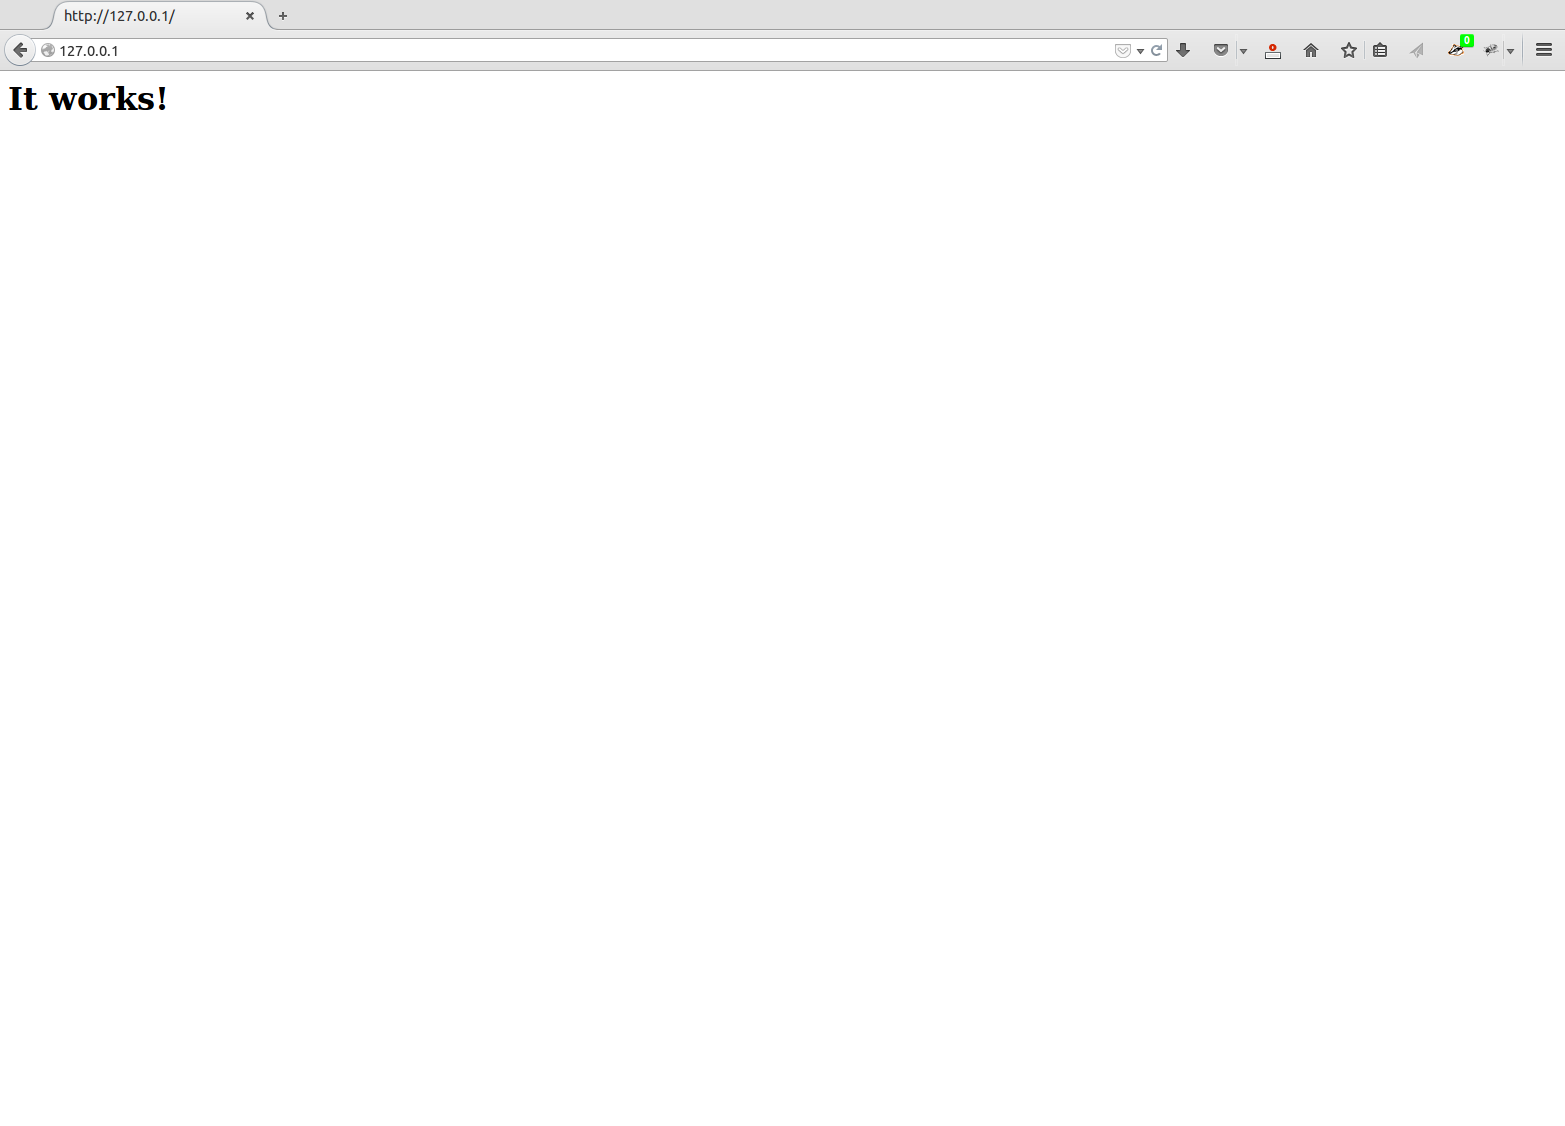
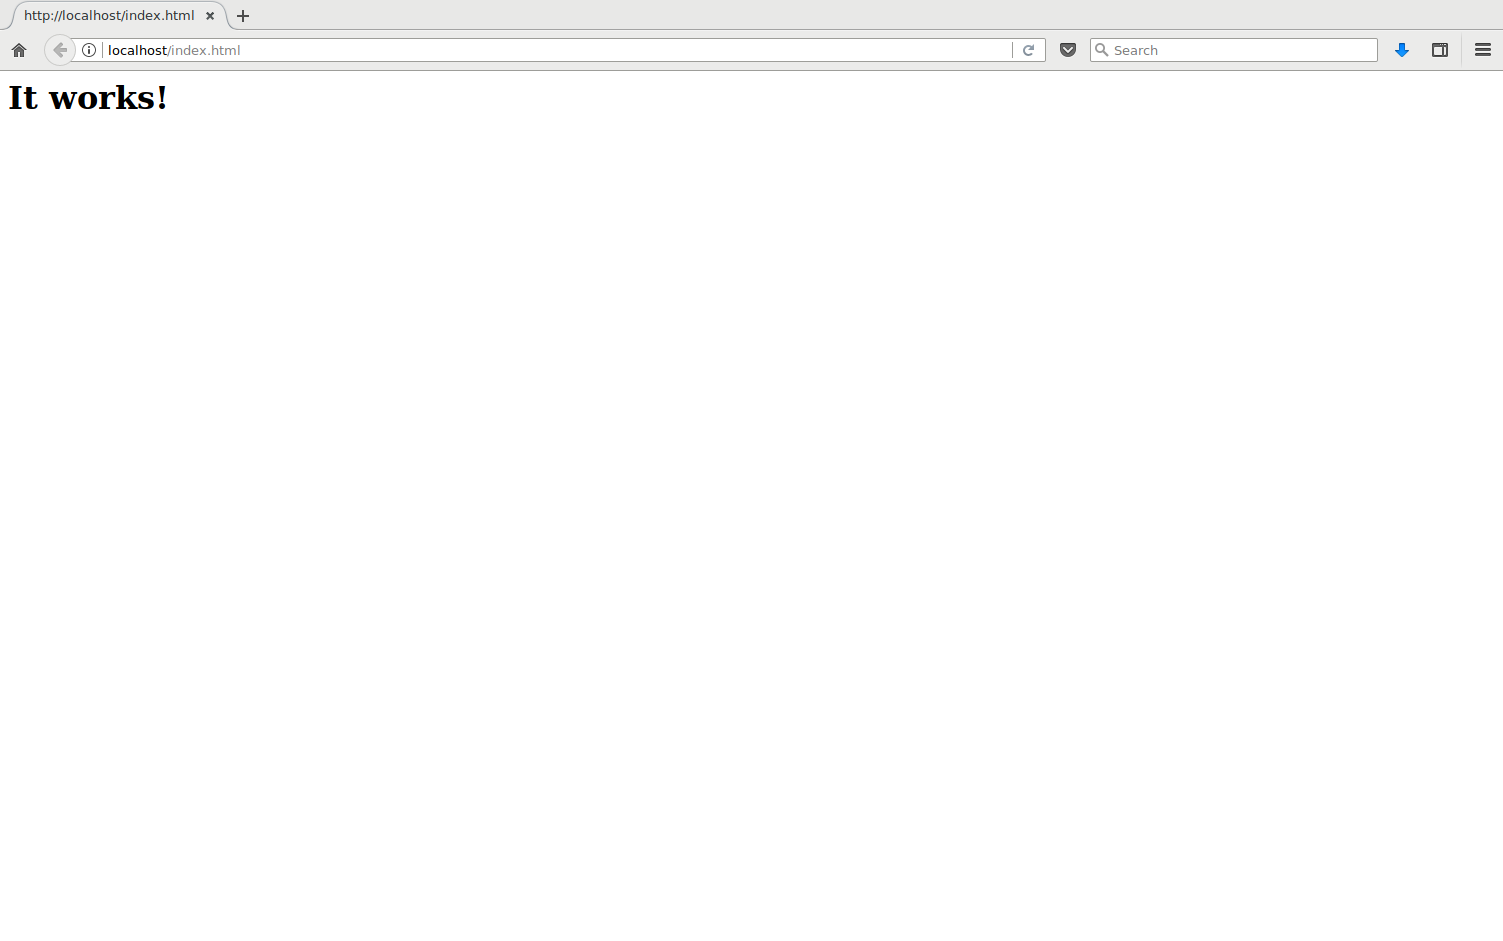
Various updates to tutorial 1 after course in October

Changed region(s): [[0.0, 0.0, 1.0, 0.1233]]

diff --git a/labor-00/README.md b/labor-00/README.md
@@ -25,23 +25,23 @@ Seit dem Erscheinen von Apache 2.4 wird der Apache Webserver ohne zwei wichtige 
 Beginnen wir mit _apr_ und laden das Paket herunter:
 
 ```bash
-$> wget https://mirror.switch.ch/mirror/apache/dist/apr/apr-1.6.2.tar.bz2
+$> wget https://www-eu.apache.org/dist/apr/apr-1.6.3.tar.bz2
 ```
 
 Nun laden wir die Checksum der Sourcecodedatei direkt von Apache herunter. Leider bietet _www.apache.org_ nur eine md5-Checksum für `apr` an. Wir testen sie dennoch. Sicherheitshalber verwenden wir beim Herunterladen eine gesicherte Verbindung. Ohne https macht diese Überprüfung keinen grossen Sinn. Beide Files, der Sourcecode und die kleine Prüfsummendatei, sollten nebeneinander in `/usr/src/apache` liegen. Dann lässt sich die Prüfsumme testen:
 
 
 ```bash
-$> wget https://www.apache.org/dist/apr/apr-1.6.2.tar.bz2.md5
-$> md5sum --check apr-1.6.2.tar.bz2.md5
-apr-1.6.2.tar.bz2: OK
+$> wget https://www.apache.org/dist/apr/apr-1.6.3.tar.bz2.md5
+$> md5sum --check apr-1.6.3.tar.bz2.md5
+apr-1.6.3.tar.bz2: OK
 ```
 
 Das Überprüfen sollte keine Probleme machen, _OK_. Wir können also mit dem Entpacken, Vorkonfigurieren und dem Kompilieren der _apr_ fortfahren.
 
 ```bash
-$> tar -xvjf apr-1.6.2.tar.bz2
-$> cd apr-1.6.2
+$> tar -xvjf apr-1.6.3.tar.bz2
+$> cd apr-1.6.3
 $> ./configure --prefix=/usr/local/apr/
 ```
 
@@ -50,9 +50,20 @@ Der Configure-Befehl beschwert sich oft über fehlende Komponenten. Ist klar: Oh
 
 Sachen, die typischerweise fehlen, sind folgende:
 
-- build-essential
-- binutils
-- gcc
+* build-essential
+* binutils
+* gcc
+
+Und wenn wir schon dabei sind, nützen wir doch die Gelegenheit und installieren sämtliche weitere Pakete, welche wir in diesem und den folgenden Tutorials benötigen:
+
+* libexpat1-dev
+* libpcre3-dev
+* libssl-dev
+* libxml2-dev
+* libyajl-dev
+* zlibc
+* zlib1g-dev
+
 
 Das sind die Paket-Namen auf einer debian-basierten Distribution. Andernorts mögen die Pakete anders heissen.
 Das Fehlen lässt sich leicht beheben, indem man sie mit den Hilfsmitteln der eigenen Distribution nachinstalliert. Danach _configure_ neu ausführen, eventuell nochmals etwas nachinstallieren und irgendwann läuft das Skript dann erfolgreich durch (einzelne Warnungen mitten drin spielen bei _configure_ übrigens keine Rolle. Wichtig ist, dass das Skript nicht mitten drin abbricht).
@@ -73,12 +84,12 @@ Wenn dies erfolgreich geschehen ist, verfahren wir mit den _apr-util_ analog.
 
 ```bash
 $> cd /usr/src/apache
-$> wget https://mirror.switch.ch/mirror/apache/dist/apr/apr-util-1.6.0.tar.bz2
-$> wget https://www.apache.org/dist/apr/apr-util-1.6.0.tar.bz2.md5
-$> md5sum --check apr-util-1.6.0.tar.bz2.md5
-apr-util-1.6.0.tar.bz2: OK
-$> tar -xvjf apr-util-1.6.0.tar.bz2
-$> cd apr-util-1.6.0
+$> wget https://www-eu.apache.org/dist/apr/apr-util-1.6.1.tar.bz2
+$> wget https://www.apache.org/dist/apr/apr-util-1.6.1.tar.bz2.md5
+$> md5sum --check apr-util-1.6.1.tar.bz2.md5
+apr-util-1.6.1.tar.bz2: OK
+$> tar -xvjf apr-util-1.6.1.tar.bz2
+$> cd apr-util-1.6.1
 $> ./configure --prefix=/usr/local/apr/ --with-apr=/usr/local/apr/
 $> make
 $> sudo make install
@@ -92,7 +103,7 @@ Jetzt laden wir den Programmcode vom Netz herunter. Man kann das mit dem Browser
 
 ```bash
 $> cd /usr/src/apache
-$> wget https://mirror.switch.ch/mirror/apache/dist/httpd/httpd-2.4.27.tar.bz2
+$> wget https://www-eu.apache.org/dist//httpd/httpd-2.4.29.tar.bz2
 ```
 
 Der gepackte Sourcecode hat etwa eine Grösse von 5MB.
@@ -100,9 +111,9 @@ Der gepackte Sourcecode hat etwa eine Grösse von 5MB.
 Nun laden wir die Checksum der Sourcecodedatei direkt von Apache herunter. Dankenswerterweise steht sie immerhin als _sha1-Checksum_ zur Verfügung. Sicherheitshalber verwenden wir dazu wieder eine gesicherte Verbindung. Ohne https macht diese Überprüfung keinen Sinn.
 
 ```bash
-$> wget https://www.apache.org/dist/httpd/httpd-2.4.27.tar.bz2.sha1
-$> sha1sum --check httpd-2.4.27.tar.bz2.sha1 
-httpd-2.4.27.tar.bz2: OK
+$> wget https://www.apache.org/dist/httpd/httpd-2.4.29.tar.bz2.sha1
+$> sha1sum --check httpd-2.4.29.tar.bz2.sha1 
+httpd-2.4.29.tar.bz2: OK
 ```
 
 ###Schritt 4: Entpacken und Compiler konfigurieren
@@ -110,7 +121,7 @@ httpd-2.4.27.tar.bz2: OK
 Nach der Überprüfung können wir das Paket entpacken.
 
 ```bash
-$> tar -xvjf httpd-2.4.27.tar.bz2
+$> tar -xvjf httpd-2.4.29.tar.bz2
 ```
 
 Das ergibt etwa 38MB.
@@ -118,8 +129,8 @@ Das ergibt etwa 38MB.
 Wir gehen nun in das Verzeichnis und konfigurieren den Compiler mit unseren Eingaben und mit Informationen zu unserem System. Anders als bei _apr_ sind unsere Eingaben sehr umfangreich.
 
 ```bash
-$> cd httpd-2.4.27
-$> ./configure --prefix=/opt/apache-2.4.27 --with-apr=/usr/local/apr/bin/apr-1-config \
+$> cd httpd-2.4.29
+$> ./configure --prefix=/opt/apache-2.4.29 --with-apr=/usr/local/apr/bin/apr-1-config \
 --with-apr-util=/usr/local/apr/bin/apu-1-config --enable-mpms-shared=event \
 --enable-mods-shared=all --enable-nonportable-atomics=yes
 ```
@@ -127,18 +138,6 @@ $> ./configure --prefix=/opt/apache-2.4.27 --with-apr=/usr/local/apr/bin/apr-1-c
 Hier bestimmen wir das Zielverzeichnis für den zukünftigen Apache Webserver; wieder konform mit dem _FHS_. Darauf folgen zwei Optionen, um die beiden als Vorbedingung installierten Bibliotheken anzubinden. Mittels `--enable-mpms-shared` wählen wir ein sogenanntes Prozessmodell des Servers aus. Das ist – vereinfacht gesagt – so etwas wie der Motorentyp der Maschine: Benzin oder Diesel. In unserem Fall stehen `event`, `worker`, `prefork` und ein paar experimentelle Motoren zur Verfügung. Wir nehmen hier das Modell `event`, das unter 2.4 den neuen Standard darstellt und deutlich performanter ist als die übrigen Architekturen. In den Versionslinien 2.0 und 2.2 gab es bei diesem Entscheid deutlich mehr als nur die Performance zu bedenken, aber seit 2.4 hat sich die Problematik deutlich entschärft und wir fahren nun mit `event` am besten. Mehr Infos zu den verschiedenen Prozessmodellen (_MPMs_) liefert das Apache Projekt.
 
 Dann bestimmen wir, dass wir alle (_all_) Module mitkompilieren möchten. Dabei ist zu berücksichtigen, dass _all_ hier nicht wirklich alle bedeutet. Aus historischen Gründen meint _all_ nur sämtliche Kern-Module, was auch schon eine ganze Menge ist. Das Schlüsselwort _shared_ besagt, dass wir die Module separat kompiliert haben möchten, um sie dann einzeln als optionale Module einbinden zu können. Zu guter Letzt folgt mit `enable-nonportable-atomics` ein Compiler-Flag, das den Compiler instruiert, besondere Optionen zu verwenden, welche nur auf modernen x86-Prozessoren zur Verfügung stehen und sich günstig auf die Performance auswirken.
-
-Beim _configure_-Befehl des Webservers kann es nun sein, dass weitere Pakete nachinstalliert werden müssen. Dazu zählen etwa die folgenden.
-
-- libpcre3-dev
-- libssl-dev
-- zlibc
-- zlib1g-dev
-
-Je nach Distribution mag das eine oder andere Paket anders heissen.
-
-Generell kommt es beim Kompilieren immer wieder vor, dass Bestandteile fehlen. Bisweilen ist das Nachinstallieren von Paketen schwieriger als in unserem Fall und im schlimmsten Fall kann es sein, dass Versionen inkompatibel sind. Oft findet man im Internet eine Lösung für das Problem, aber bisweilen muss man sich selbst ziemlich tief in das System eingraben, um die Wurzel der Schwierigkeiten zu beseitigen.  In unserem einfachen Fall, sollte das aber kein Thema sein.
-
 
 ###Schritt 5: Kompilieren
 
@@ -161,13 +160,13 @@ $> sudo make install
 Auch die Installation dauert eine Weile.
 
 ```bash
-$> sudo chown -R `whoami` /opt/apache-2.4.27
+$> sudo chown -R `whoami` /opt/apache-2.4.29
 ```
 
 Und jetzt noch ein Kniff: Wenn man professionell mit Apache arbeitet, dann hat man oft mehrere verschiedene Versionen nebeneinander auf der Testmaschine. Verschiedene Versionen, verschiedene Patches, andere Module etc. führen zu recht mühsamen und langen Pfaden mit Versionsnummern und weiteren Beschreibungen. Ich mache es dann jeweils so, dass ich einen Softlink von `/apache` auf den aktuellen Apache Webserver lege. Dabei ist darauf zu achten, dass auch der Softlink uns und nicht dem root-User gehört (dies wird bei der Konfiguration des Servers wichtig).
 
 ```bash
-$> sudo ln -s /opt/apache-2.4.27 /apache
+$> sudo ln -s /opt/apache-2.4.29 /apache
 $> sudo chown `whoami` --no-dereference /apache
 $> cd /apache
 ```
@@ -218,11 +217,11 @@ $> sudo ./bin/httpd -V
 ```
 
 ```bash
-Server version: Apache/2.4.27 (Unix)
-Server built:   Dec 28 2016 06:09:49
+Server version: Apache/2.4.29 (Unix)
+Server built:   Dec 17 2017 06:09:49
 Server's Module Magic Number: 20120211:47
-Server loaded:  APR 1.6.2, APR-UTIL 1.6.0
-Compiled using: APR 1.6.2, APR-UTIL 1.6.0
+Server loaded:  APR 1.6.3, APR-UTIL 1.6.1
+Compiled using: APR 1.6.3, APR-UTIL 1.6.1
 Architecture:   64-bit
 Server MPM:     event
   threaded:     yes (fixed thread count)
@@ -237,8 +236,8 @@ Server compiled with....
  -D APR_HAS_OTHER_CHILD
  -D AP_HAVE_RELIABLE_PIPED_LOGS
  -D DYNAMIC_MODULE_LIMIT=256
- -D HTTPD_ROOT="/opt/apache-2.4.27"
- -D SUEXEC_BIN="/opt/apache-2.4.27/bin/suexec"
+ -D HTTPD_ROOT="/opt/apache-2.4.29"
+ -D SUEXEC_BIN="/opt/apache-2.4.29/bin/suexec"
  -D DEFAULT_PIDLOG="logs/httpd.pid"
  -D DEFAULT_SCOREBOARD="logs/apache_runtime_status"
  -D DEFAULT_ERRORLOG="logs/error_log"

diff --git a/labor-05/README.md b/labor-05/README.md
@@ -40,7 +40,7 @@ modsecurity-2.9.2.tar.gz: OK
 
 ###Schritt 2: Entpacken und Compiler konfigurieren
 
-Wir entpacken nun den Sourcecode und leiten die Konfiguration ein. Noch vorher gilt es aber vier Pakete zu installieren, die eine Voraussetzung für das Kompilieren von _ModSecurity_ bilden. Zwei Bibliotheken zum Parsen von XML-Strukturen, die Grundlagen-/Header-Dateien der systemeigenen Regular Expression Library und eine Library die sich um Daten im JSON Format kümmert:
+Wir entpacken nun den Sourcecode und leiten die Konfiguration ein. Noch vorher gilt es aber einige Pakete zu installieren, die eine Voraussetzung für das Kompilieren von _ModSecurity_ bilden. Wer der ersten Anleitung in dieser Serie gefolgt ist, der hat diese Pakete schon installiert. Aber es lohnt sich sicherzustellen, dass wirklich die ganze folgende Liste vorhanden ist: Zwei Bibliotheken zum Parsen von XML-Strukturen, die Grundlagen-/Header-Dateien der systemeigenen Regular Expression Library und eine Library die sich um Daten im JSON Format kümmert:
 
 * libxml2-dev
 * libexpat1-dev

diff --git a/labor-00/old_changelog.md b/labor-00/old_changelog.md
@@ -1,5 +1,7 @@
 ###Changelog
 
+* 17\. Dezember 2017: Wechsel des Apache Mirrors (www-eu.apache.org), Update apr (1.6.3), apr-util (1.6.1) und Apache (2.4.29); Paketinstallationen neu arrangiert, Screenshot ausgewechselt
+* 17\. Dezember 2017: Wechsel des Apache Mirrors (www-eu.apache.org), Update apr (1.6.3), apr-util (1.6.1) und Apache (2.4.29)
 * 25\. September 2017: Update of apr (1.6.2), apr-util (1.6.0) and apache (2.4.27)
 * 28\. Dezember 2016: Apache 2.4.23->2.4.25
 * 20\. Dezember 2016: tar Optionen mit "-" eingeleitet

diff --git a/labor-05/old_changelog.md b/labor-05/old_changelog.md
@@ -1,6 +1,6 @@
 ###Changelog
 
-
+* 17\. Dezember 2017: Installieren von Paketen umformuliert
 * 25\. September 2017: Update of apr (1.6.2), apr-util (1.6.0), apache (2.4.27) and ModSecurity (2.9.2)
 * 5\. März 2017: MaxClients Direktive durch MaxRequestWorkers ersetzt; Reihenfolge der ModSec Datenverzeichnisse geändert
 * 25\. Februar 2017: AllowOverride komplett entfernt, Bugfix in Logfile Schritt 7 und curl Aufruf Schritt 9

diff --git a/labor-05/metainformation.md b/labor-05/metainformation.md
@@ -1,7 +1,7 @@
 Titel: ModSecurity Kompilieren und Konfigurieren  
 Author: <a href="mailto:christian.folini@netnea.com">Christian Folini</a>  
 Tutorial Nr: 6  
-Letztes Update: 25.09.2017  
+Letztes Update: 17.12.2017  
 Erscheinungsdatum: 17.03.2013  
 Schwierigkeit: Schwer  
 Dauer: 2h  

diff --git a/labor-00/metainformation.md b/labor-00/metainformation.md
@@ -1,7 +1,7 @@
 Title: Apache Kompilieren  
 Author: <a href="mailto:christian.folini@netnea.com">Christian Folini</a>  
 Tutorial Nr: 1  
-Letztes Update: 25.09.2017 
+Letztes Update: 17.12.2017  
 Erscheinungsdatum: 21.10.2010  
 Schwierigkeit: Leicht  
 Dauer: 1/2h
